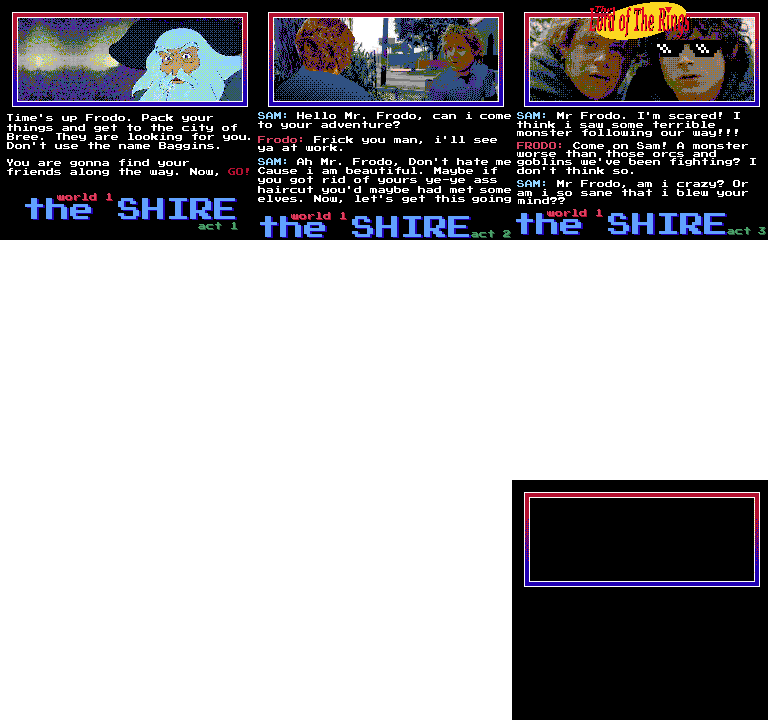
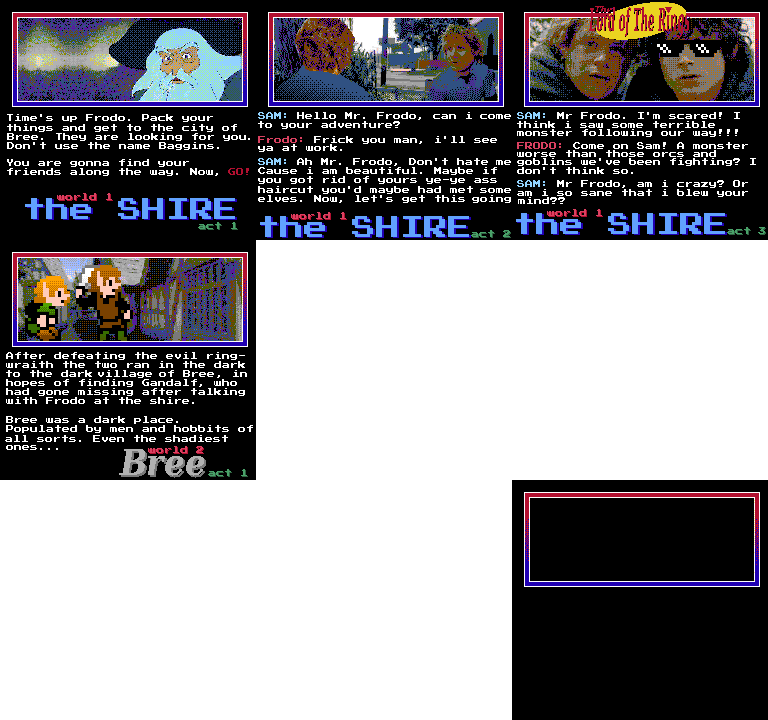
Added more cool stuff for bree

Changed region(s): [[0.0, 0.3361, 0.3438, 0.6722], [0.75, 0.0, 0.9062, 0.0611]]

diff --git a/assets/tilemaps/items.tsx b/assets/tilemaps/items.tsx
@@ -7,6 +7,7 @@
  <tile id="3" type="spring"/>
  <tile id="4" type="redKey"/>
  <tile id="5" type="yellowKey"/>
+ <tile id="6" type="lockScreen"/>
  <tile id="7" type="life"/>
  <tile id="8" type="endSpot"/>
  <tile id="9" type="bridge"/>
@@ -22,6 +23,12 @@
   <properties>
    <property name="firstX" type="int" value="0"/>
    <property name="lastX" type="int" value="0"/>
+  </properties>
+ </tile>
+ <tile id="30" type="blackrider">
+  <properties>
+   <property name="firstX" type="int" value="2400"/>
+   <property name="lastX" type="int" value="2592"/>
   </properties>
  </tile>
 </tileset>

diff --git a/main.js b/main.js
@@ -66,9 +66,18 @@ var levels = [
             "assets/backgrounds/hobbitonMountains2.png"
         ],
         music: "assets/music/hobbiton-1.mp3"
-    }
+    },
+	{
+		dir: "assets/tilemaps/bree-0.json",
+		backgrounds: [
+			"assets/backgrounds/breeSkies.png",
+			"assets/backgrounds/breeBuildings0.png",
+			"assets/backgrounds/breeBuildings1.png"
+		]
+		music: "assets/music/hobbiton-1.mp3"
+	}
 ]
 
-var currentLevel = 2
+var currentLevel = 3
 
 var game = new Phaser.Game(config)
